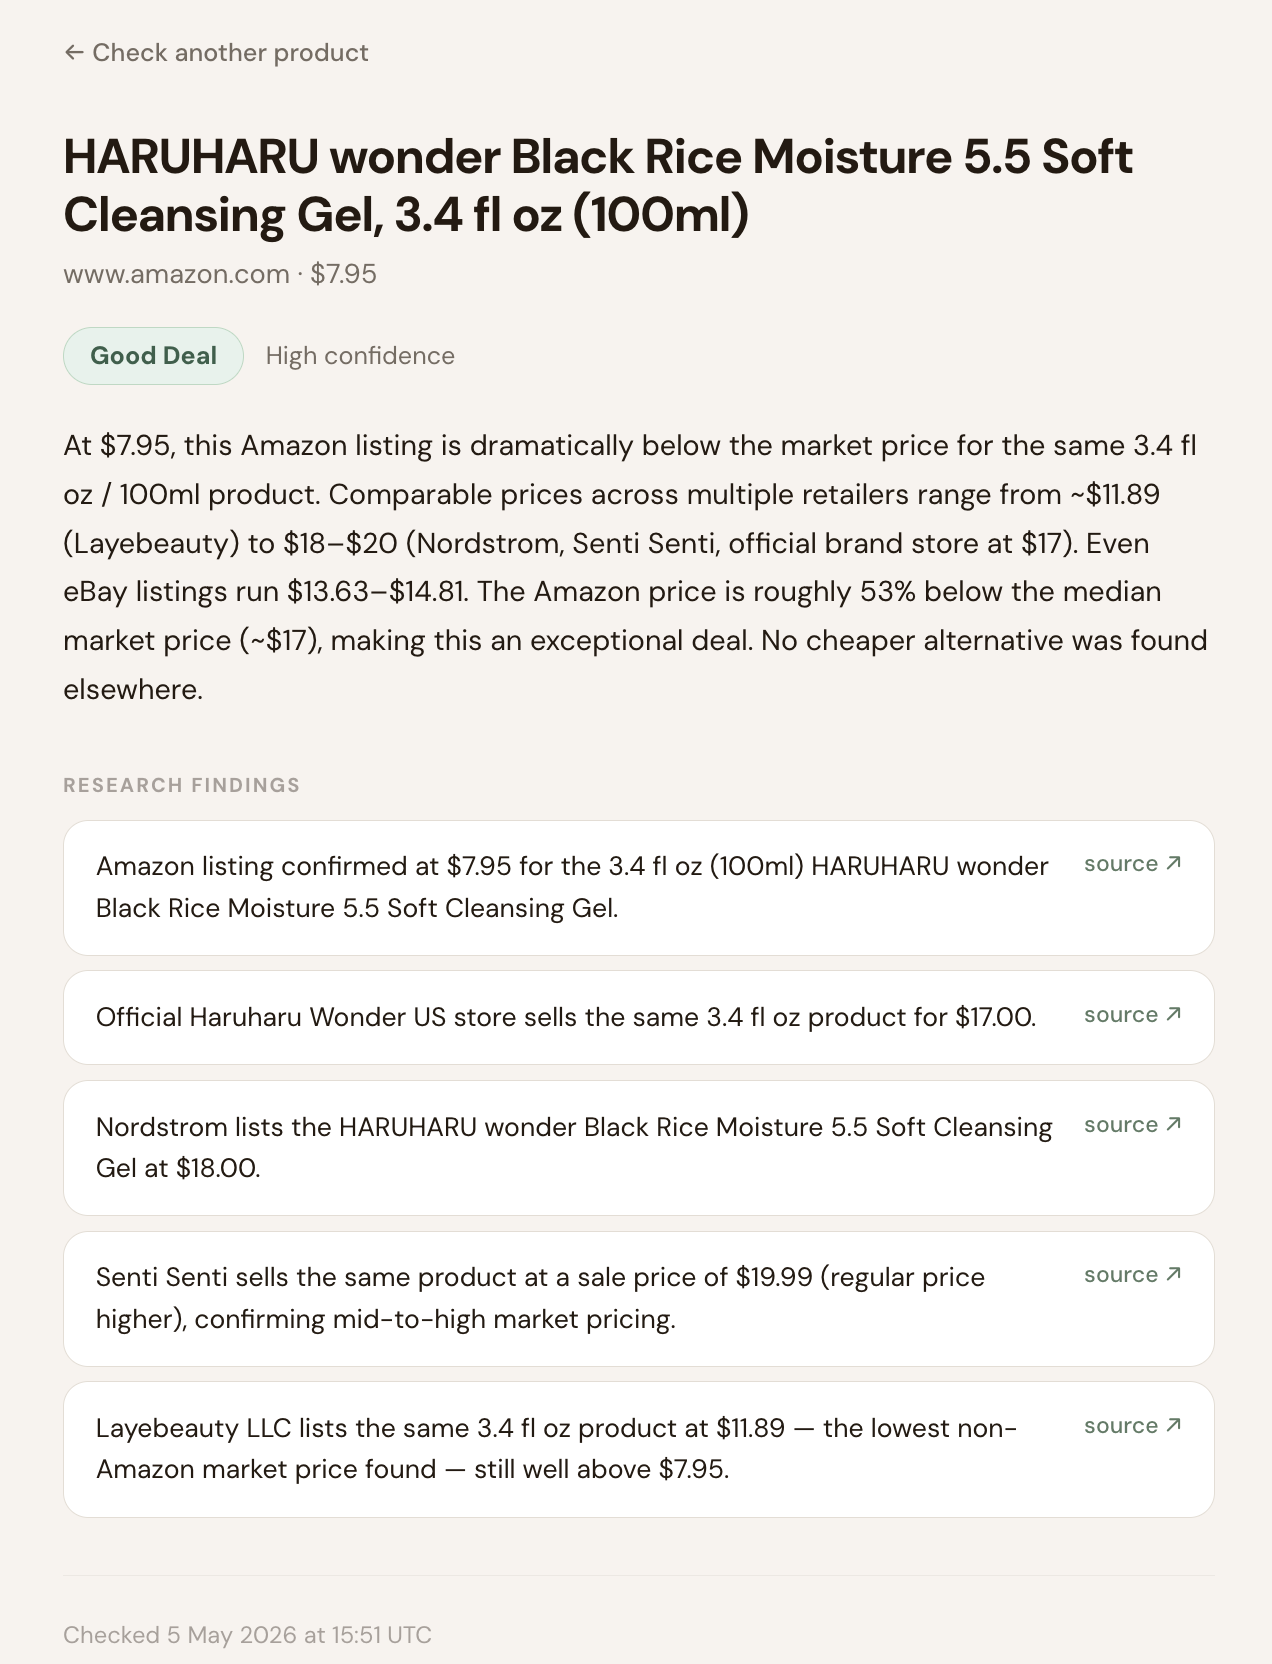
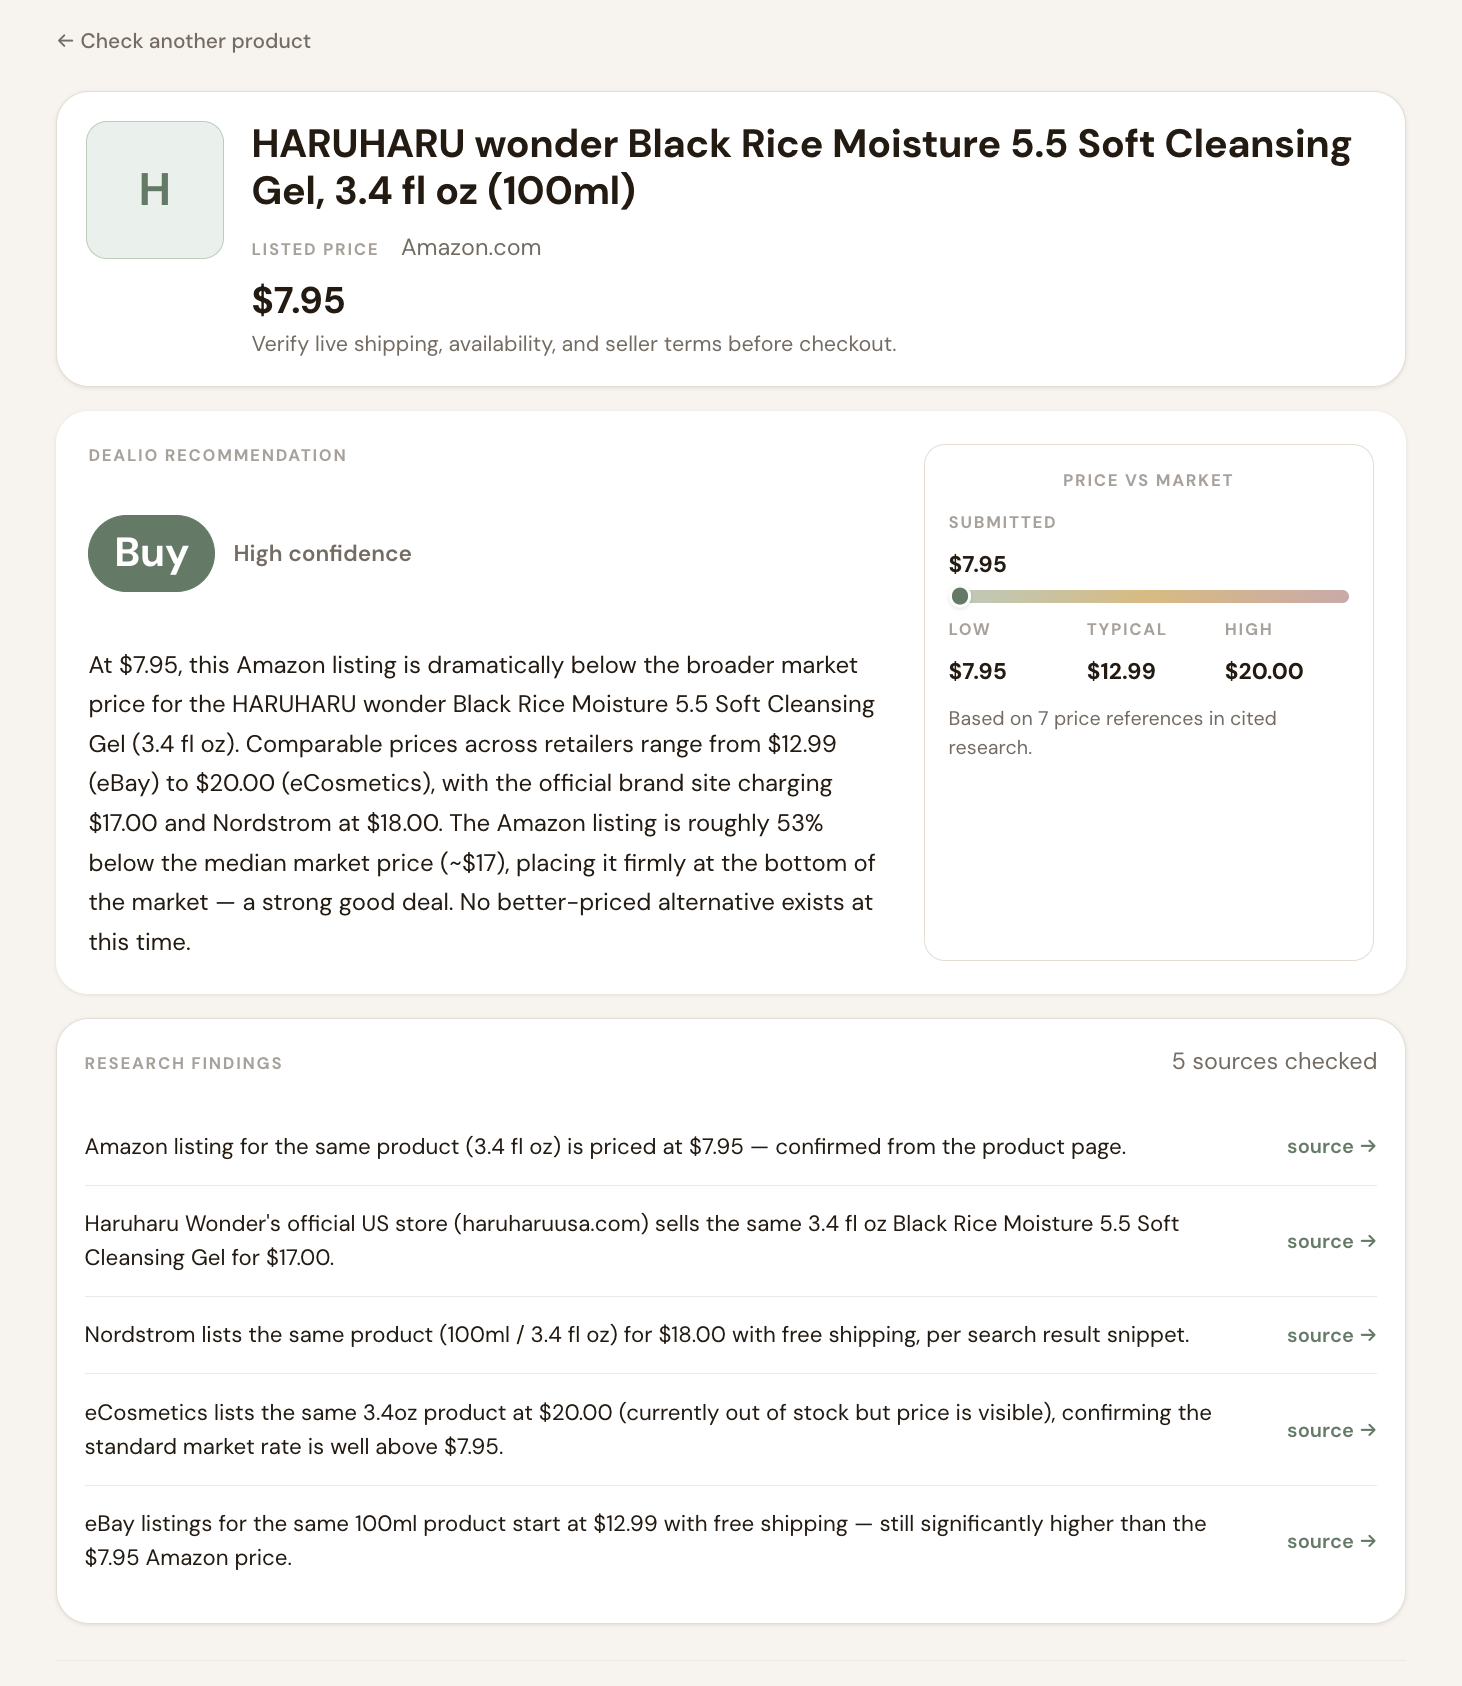
ROK-71: Update landing screenshots

diff --git a/app/templates/landing.html b/app/templates/landing.html
@@ -348,7 +348,7 @@
                 </div>
             </div>
             <div class="screenshot-example">
-                <p class="screenshot-label">Good deal result</p>
+                <p class="screenshot-label">Buy result</p>
                 <div class="screenshot-card screenshot-card-good-deal">
                     <img
                         class="screenshot"
